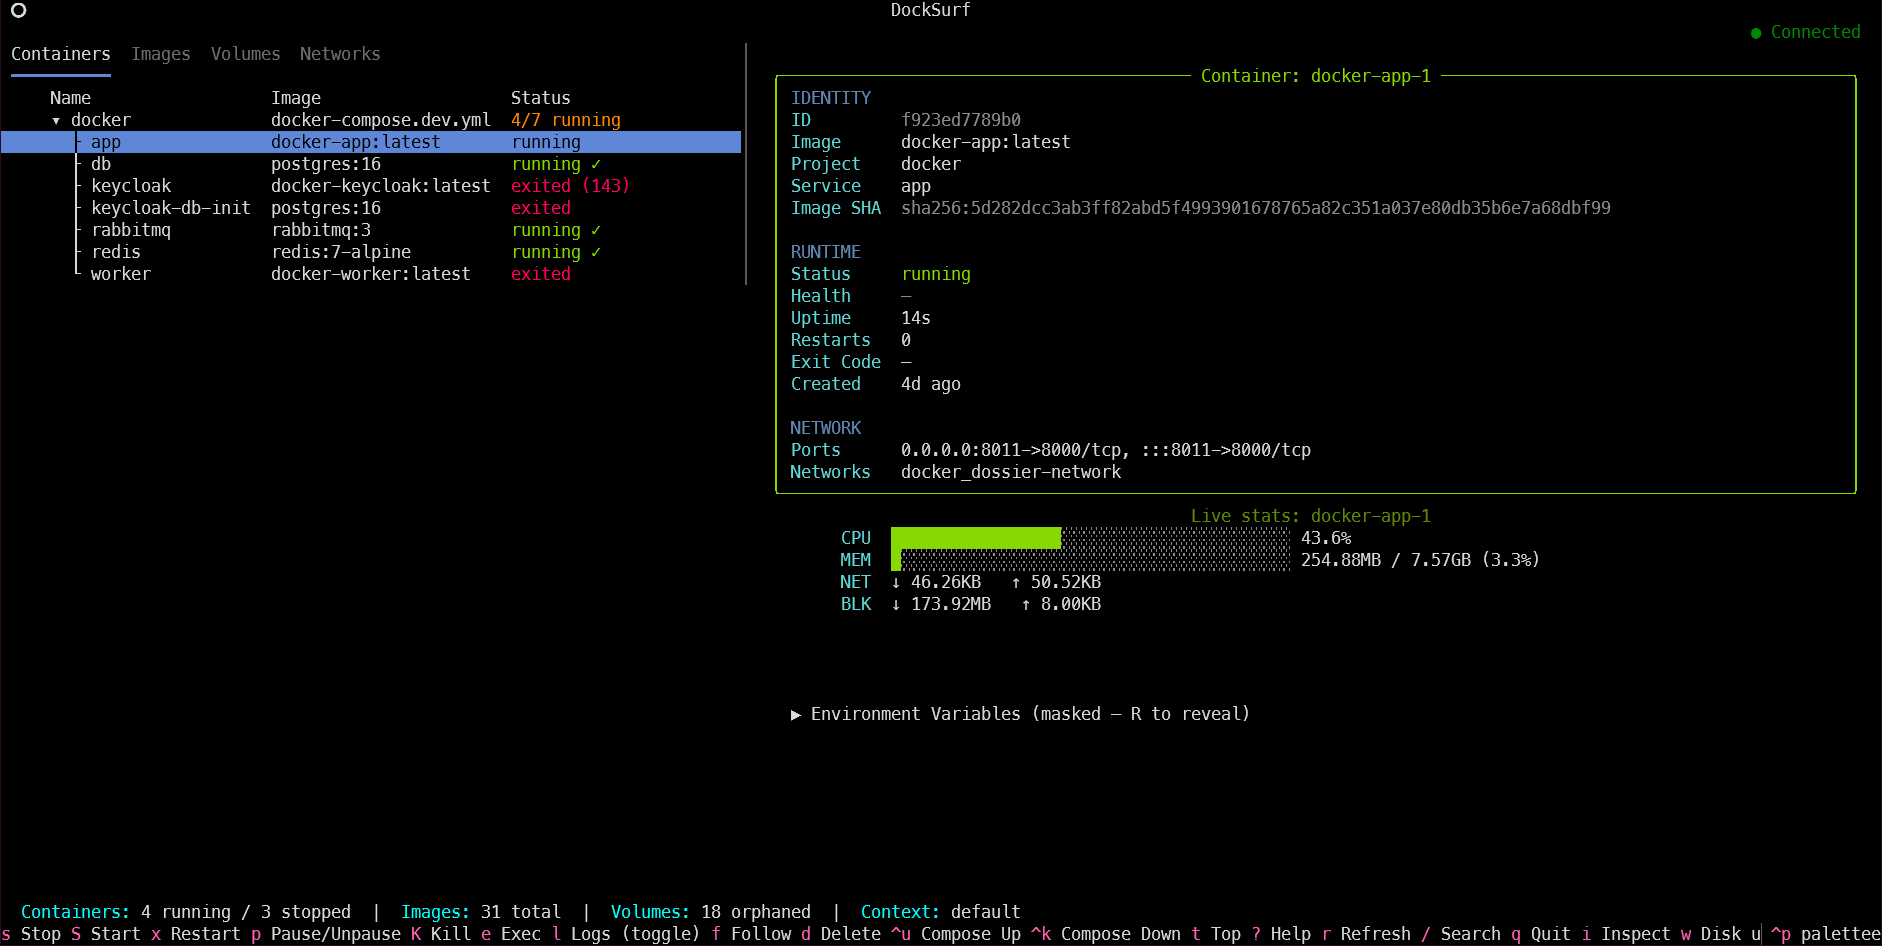
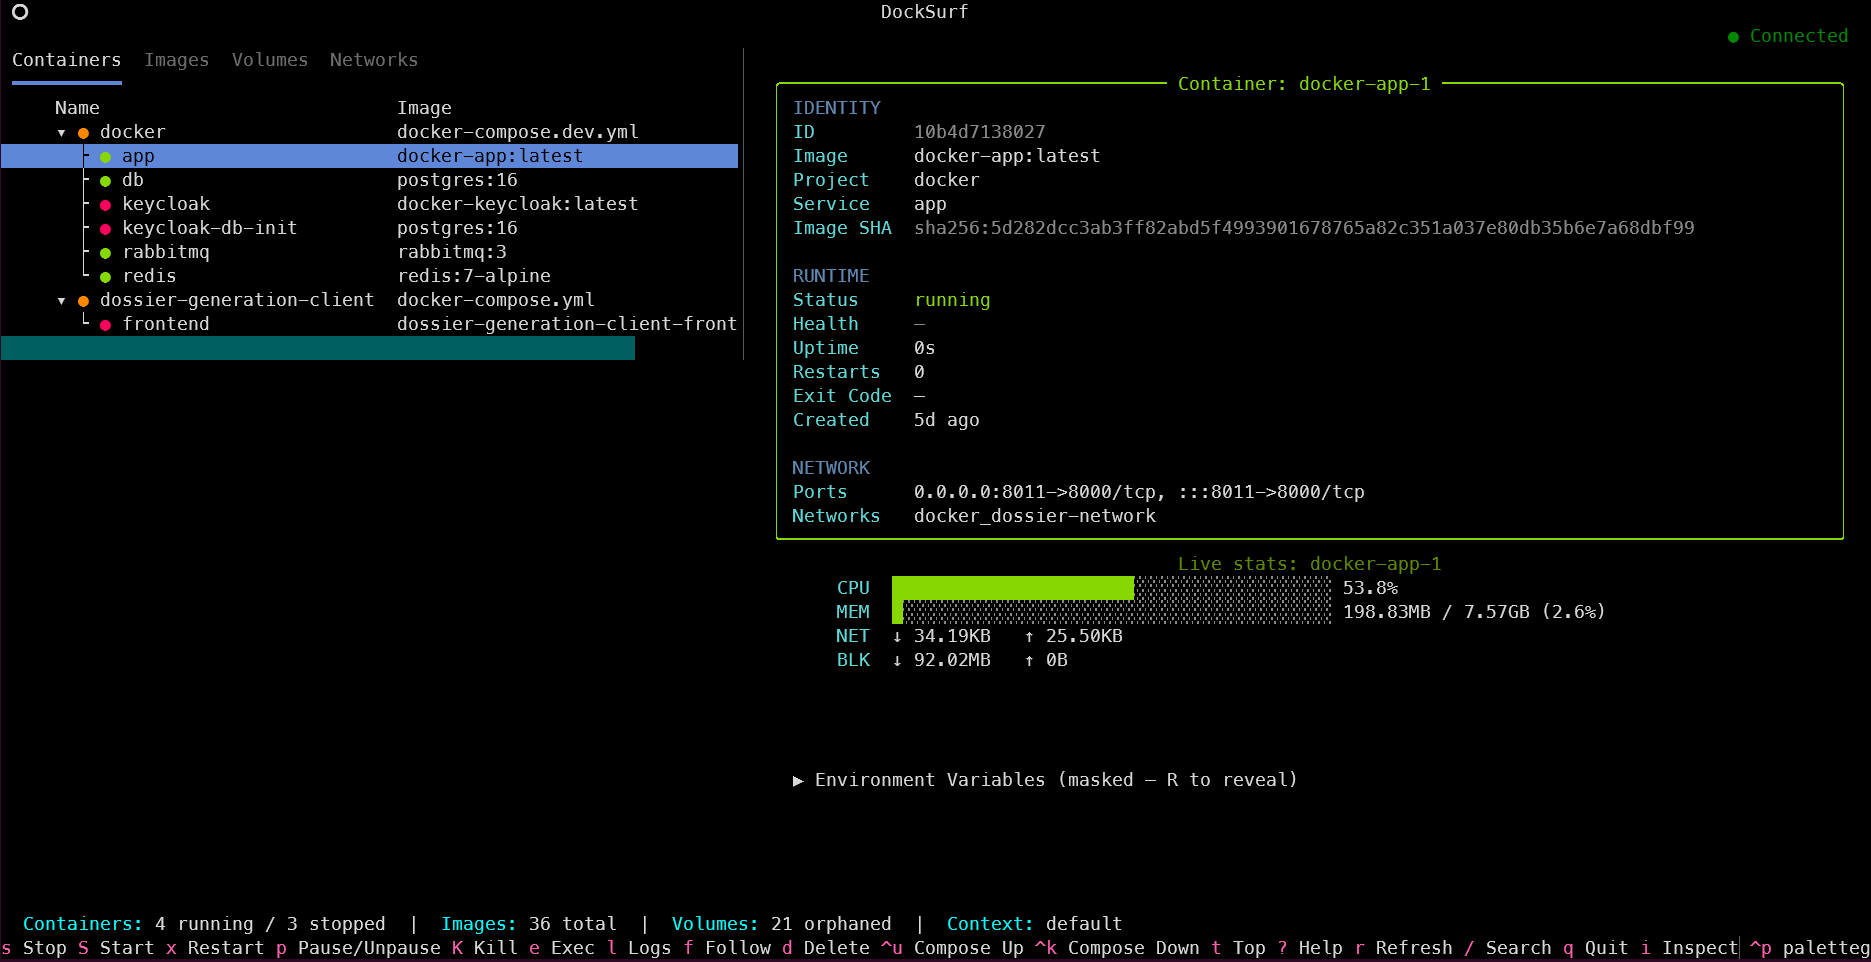
feat(containers): status dot instead of Status column; release notes + docs

diff --git a/docksurf_py/renderer/table_renderer.py b/docksurf_py/renderer/table_renderer.py
@@ -69,20 +69,10 @@ def _status_markup(c: Container) -> SafeMarkup:
     return SafeMarkup(f"[{_status_color(c)}]{label}[/]")
 
 
-def _status_cell(
-    c: Container, container_details: dict[str, ContainerDetail]
-) -> SafeMarkup:
-    """Return the status markup, adding a restart-count badge if available.
-
-    Restart counts come from per-container inspect data, so the badge only
-    appears for containers whose details have already been loaded.
-    """
-    base = _status_markup(c)
-    detail = container_details.get(c.id)
-    if detail and detail.restart_count > 0:
-        badge = f"({detail.restart_count} restarts)"
-        return SafeMarkup(f"{base} [{STATUS_YELLOW}]{badge}[/]")
-    return base
+def _status_dot(color: str) -> str:
+    """Colored bullet prefixed to a Name cell — an at-a-glance state
+    indicator so users don't need to scroll a wide table to see Status."""
+    return f"[{color}]●[/]"
 
 
 def _safe_row(table: DataTable, *values) -> None:
@@ -324,12 +314,12 @@ class TableRenderer(_Base):
                 else ""
             )
             rows.append(project)
+            dot = _status_dot(_project_status_color(project))
             _safe_row(
                 table,
                 "",  # project headers can't be marked
-                SafeMarkup(f"[b]{glyph} {escape(project.name)}[/b]"),
+                SafeMarkup(f"[b]{glyph}[/b] {dot} [b]{escape(project.name)}[/b]"),
                 config,
-                _project_status_markup(project),
             )
             if collapsed:
                 continue
@@ -337,23 +327,25 @@ class TableRenderer(_Base):
             for idx, c in enumerate(members):
                 rows.append(c)
                 branch = "└" if idx == len(members) - 1 else "├"
-                name = SafeMarkup(f"  {branch} {escape(c.compose_service or c.name)}")
+                dot = _status_dot(_status_color(c))
+                name = SafeMarkup(
+                    f"  {branch} {dot} {escape(c.compose_service or c.name)}"
+                )
                 _safe_row(
                     table,
                     _mark_cell(marked, self._row_key(c)),
                     name,
                     c.image_name,
-                    _status_cell(c, self._container_details),
                 )
 
         for c in standalone:
             rows.append(c)
+            dot = _status_dot(_status_color(c))
             _safe_row(
                 table,
                 _mark_cell(marked, self._row_key(c)),
-                c.name,
+                SafeMarkup(f"{dot} {escape(c.name)}"),
                 c.image_name,
-                _status_cell(c, self._container_details),
             )
 
         self._current[TabID.CONTAINERS] = rows

diff --git a/docksurf_py/actions/container.py b/docksurf_py/actions/container.py
@@ -14,7 +14,6 @@ from typing import Callable
 
 from rich.markup import escape
 from textual import work
-from textual.coordinate import Coordinate
 from textual.widgets import DataTable, TabbedContent
 
 from docksurf_py.actions.common import _PROJECT_HINT, _Base
@@ -27,7 +26,6 @@ from docksurf_py.models import (
     PortBinding,
 )
 from docksurf_py.paths import DATA_DIR
-from docksurf_py.renderer.table_renderer import _status_cell
 from docksurf_py.widgets import (
     ContainerPickerScreen,
     DetailPane,
@@ -191,16 +189,6 @@ class ContainerActionHandler(_Base):
             entry.show_details(pane, row)
         except IndexError:
             pass
-        # Refresh the row's Status cell too, now that its restart count (if
-        # any) is cached — `_status_cell` folds it in as a badge, but only
-        # once a container's been focused (see its own docstring for why).
-        rows = self._current.get(TabID.CONTAINERS, [])
-        item = rows[row] if row < len(rows) else None
-        if isinstance(item, Container) and item.id == container_id:
-            col = 1 + entry.columns.index("Status")
-            table.update_cell_at(
-                Coordinate(row, col), _status_cell(item, self._container_details)
-            )
 
     def _run_on_focused_container(
         self,

diff --git a/docksurf_py/widgets/tables.py b/docksurf_py/widgets/tables.py
@@ -15,6 +15,14 @@ from textual.widgets import DataTable
 class ContainerTable(DataTable):
     """A Table specifically for Containers with context-aware bindings."""
 
+    def __init__(self, *args, **kwargs) -> None:
+        # DataTable's default ("css") makes the cursor row's CSS foreground
+        # color override every cell's own color, including the status dot
+        # prefixed to the Name cell, which would otherwise go flat/unreadable
+        # on exactly the row a user is currently looking at.
+        kwargs.setdefault("cursor_foreground_priority", "renderable")
+        super().__init__(*args, **kwargs)
+
     BINDINGS = [
         Binding("s", "stop_container", "Stop"),
         Binding("S", "start_container", "Start"),

diff --git a/docksurf_py/app.py b/docksurf_py/app.py
@@ -345,7 +345,7 @@ class DockSurfApp(
         self._resource_registry = {
             TabID.CONTAINERS: ResourceEntry(
                 table_id=TableID.CONTAINERS,
-                columns=("Name", "Image", "Status"),
+                columns=("Name", "Image"),
                 label="container",
                 snapshot_items=lambda snap: snap.containers,
                 populate=self._populate_container_table,
@@ -355,7 +355,6 @@ class DockSurfApp(
                 sort_keys={
                     "Name": lambda c: c.name.lower(),
                     "Image": lambda c: c.image_name.lower(),
-                    "Status": lambda c: (not c.running, c.status.lower()),
                 },
             ),
             TabID.IMAGES: ResourceEntry(

diff --git a/README.md b/README.md
@@ -10,25 +10,24 @@ A keyboard-driven terminal UI for visualising and managing Docker resources like
 ## Highlights
 
 - **Live by default** — the tables auto-refresh on `docker events` (container start/stop/die, image pull/delete, …); `r` is a manual reload.
-- **Local or remote** — honours your active `docker context` on startup, so it manages the same daemon your CLI does: local, Docker Desktop, Colima, or a remote host over SSH/TCP.
-- **Docker Compose aware** — containers are grouped by project into a collapsible tree, with project-wide up / down / stop / start / restart and interleaved, colour-coded-per-service logs.
+- **Local or remote** — honours your active `docker context` on startup: local, Docker Desktop, Colima, or a remote host over SSH/TCP.
+- **Docker Compose aware** — containers grouped by project into a collapsible tree, with project-wide up/down/stop/start/restart, colour-coded per-service logs, and `B` to rebuild + recreate a single service in place.
 - **Live resource stats** — CPU %, memory, network and block I/O streamed into the detail pane for the selected running container.
 - **Full lifecycle control** — pause/unpause and kill sit alongside stop/start/restart, so a `stop` that hangs on its 10s timeout never needs the CLI.
 - **Multi-select + bulk actions** — mark rows on any tab and stop/start/remove them as a batch; ideal for cleaning up after a test run.
 - **Inspect & prune** — the full raw `docker inspect` JSON for any resource in a searchable modal, plus a one-key menu to prune stopped containers, dangling images, unused volumes/networks, or everything at once.
-- **Image / volume / network operations** — pull images with live progress, view layer history, tag, and bulk-clean dangling images; create volumes and check per-volume disk size; create networks and connect/disconnect containers, with per-container IP/MAC in the detail pane.
+- **Full image/volume/network CRUD** — pull, tag, and layer-history for images; create + size-on-disk for volumes; create + connect/disconnect for networks (see [Tabs](#tabs)).
 - **Power-user exec & copy** — a custom exec command with a chosen user, `docker cp` in/out of a container, and an on-demand `docker top` process snapshot, all via quick prompts.
-- **Full control log viewer** — live follow, in-log search with `n`/`N` match jumping, a timestamps toggle, configurable tail depth and `--since` window, line wrap for long JSON, jump-to-top/bottom, and one-key export of the buffer to a file.
-- **Operational signals at a glance** — colour-coded health column, uptime and restart count, plus recent health-check probe output in the detail pane.
+- **Full control log viewer** — live follow, in-log search, timestamps, configurable tail/`--since`, and mouse drag-to-select text to copy (`Ctrl+C`).
+- **Operational signals at a glance** — colour-coded health, uptime and restart count, plus recent health-check probe output in the detail pane.
 - **Disk usage** — a `docker system df` breakdown (per-type size + reclaimable) on demand.
-- **In-app context switching** — list and switch Docker contexts from inside the TUI (`D`) without ever running `docker context use`, so other terminals keep whatever context they already had. The choice is remembered across restarts.
-- **Auto-reconnect** — if the daemon goes down mid-session, the status bar flags it immediately and DockSurf reconnects on its own the moment it's back, with a full refresh — no restart required.
+- **In-app context switching** — list and switch Docker contexts from inside the TUI (`D`), remembered across restarts.
+- **Auto-reconnect** — if the daemon goes down mid-session, DockSurf reconnects and refreshes on its own the moment it's back.
 
 ## Requirements
 
-- Python 3.11+
 - A reachable Docker daemon (local, or a remote one via `docker context`)
-- [`uv`](https://github.com/astral-sh/uv) (package manager)
+- Python 3.11+ and [`uv`](https://github.com/astral-sh/uv) — not needed if you're using the [standalone binary](#install)
 - The `docker` CLI on `PATH` — only needed for exec-shell (`e`/`E`), Compose project actions (`u`/`k`), and file copy (`C`); everything else uses the SDK. DockSurf degrades gracefully if it's absent.
 
 ## Install
@@ -47,6 +46,21 @@ Or run it without installing, via [`uvx`](https://docs.astral.sh/uv/guides/tools
 ```bash
 uvx docksurf
 ```
+
+**Standalone binary** (no Python/pip/uv required) — download the file for your OS from the [latest release](https://github.com/praneeth-etta/docksurf/releases/latest):
+
+- Linux: `docksurf-linux-x86_64`
+- macOS (Apple Silicon): `docksurf-macos-arm64`
+- macOS (Intel): `docksurf-macos-x86_64`
+- Windows: `docksurf-windows-x86_64.exe`
+
+```bash
+chmod +x docksurf-linux-x86_64   # or the macOS binary you downloaded
+mv docksurf-linux-x86_64 /usr/local/bin/docksurf
+docksurf
+```
+
+On Windows, just run the `.exe` directly — no `chmod`/`mv` step needed.
 
 **From source** (for development, or to run an unreleased change):
 
@@ -95,7 +109,7 @@ The essentials — full reference (per-tab keys, log pane, Compose header behavi
 
 Every tab has a leading mark column (`space` to toggle) for multi-select + bulk actions — see [Keybindings](#keybindings).
 
-**Containers** — all containers (running and stopped), **grouped by Compose project** into a collapsible tree (project header → service rows), with standalone containers listed below. Columns: name, status, colour-coded health, and uptime. The detail pane shows image, ports, networks, project/service, uptime, restart count, a collapsible environment-variable section, a collapsible recent-health-probe log, a live CPU/mem/net/block-IO panel for a running container, and — on demand (`t`) — a `docker top` running-process snapshot.
+**Containers** — all containers (running and stopped), **grouped by Compose project** into a collapsible tree, with standalone containers below. Columns: name (with a colour-coded status dot) and image. The detail pane adds status, health, uptime, restart count, ports, networks, env vars, health-probe history, live CPU/mem/net/block-IO stats, and an on-demand `docker top` snapshot (`t`). For a Compose service, `B` rebuilds and recreates just that container, streamed live.
 
 **Images** — all images, tagged as *In Use*, *Unused*, or *Dangling*. Detail pane shows size, created date, architecture, and which containers reference the image. Pull new images with live progress (`+`), view per-layer history (`h`), retag (`y`), and one-key mark-all-dangling for bulk cleanup (`a`).
 
@@ -105,24 +119,13 @@ Every tab has a leading mark column (`space` to toggle) for multi-select + bulk 
 
 ## Architecture
 
-Eleven top-level modules/packages with strict layering (_models.py_ and _constants.py_ are leaf nodes and nothing imports into them). Four of the eleven — `docker`, `renderer`, `actions`, `widgets` — are packages split into one file per class/mixin, each re-exporting exactly what the equivalent single file used to expose, so nothing outside the package needed to change:
-
-- **`constants.py`** — widget/tab/table IDs, the _SafeMarkup_ render-boundary marker, and Rich markup helpers.
-- **`models.py`** — typed dataclasses for every resource (_Container_, _Image_, _Volume_, _Network_, _ComposeProject_, _ContainerStats_, _ContainerTop_, _SystemDf_, _ContextInfo_, …). No presentation logic.
-- **`connection.py`** — Docker connection detection/classification, context and host resolution.
-- **`docker/`** — all Docker I/O via the [Docker SDK for Python](https://docker-py.readthedocs.io/). _DockerClient_ (`client.py`) owns the SDK connection (honouring _docker context_, with an in-app override for `switch_context`) and every management call — full container lifecycle (stop/start/restart/pause/kill/remove), prune, inspect, `top`, file copy, and context listing/switching; it also detects a dropped daemon (`mark_disconnected`) so reconnecting doesn't need a restart. _DockerResourceFetcher_ (`fetcher.py`) does the parallel reads; _LogStream_/_MergedLogStream_/_StatsStream_/_EventStream_ (`streams.py`) are the live iterators; context resolution (`context.py`) and display formatting (`format.py`) round out the package.
-- **`service.py`** — the _DockerService_ protocol _DockerClient_ implements (swappable in tests).
-- **`widgets/`** — Textual UI components with no Docker knowledge, one file per widget/screen: _ContainerTable_, _DetailPane_, _LogPane_, _SearchBar_, _ConfirmDialog_, _HelpScreen_, _SystemDfScreen_, _InspectScreen_, _PruneScreen_, _PromptScreen_, _StatusBar_ (renders a connection-lost indicator).
-- **`renderer/`**, **`actions/`**, **`search.py`**, **`observability.py`** — focused mixin classes composed into _DockSurfApp_ in **_app.py_**, driven by a single per-tab ResourceEntry registry: table rendering, snapshot/event lifecycle, connection-state tracking, and multi-select marking (`renderer/`); container lifecycle, Compose, delete, bulk actions, inspect, prune, exec, file-copy, and context-switching actions (`actions/`); search (`search.py`); live stats, disk usage, and `docker top` (`observability.py`).
+Strict layering: `models.py` and `constants.py` are leaf modules nothing imports into. All Docker I/O lives in `docker/` (via the [Docker SDK for Python](https://docker-py.readthedocs.io/)) behind a `DockerService` protocol, so it's swappable in tests. `widgets/` is presentation-only, with no Docker knowledge. `renderer/`, `actions/`, `search.py`, and `observability.py` compose into the app itself — table rendering, resource actions, search, and live stats/`docker top` — driven by a single per-tab resource registry rather than branching on resource type throughout.
 
 ## How data is fetched
 
-DockSurf talks to Docker through the SDK (`docker-py`), not the CLI but with three sanctioned exceptions, all guarded on the `docker` CLI being present: the interactive **exec-shell** (needs a real TTY the SDK can't hand back), **Compose project actions** (docker-py has no Compose support, and `up` must recreate containers from the compose file), and **file copy** (`docker cp`) — the SDK only exposes raw tar archives, and safely reproducing `docker cp`'s copy semantics isn't worth it for a convenience feature.
+DockSurf talks to Docker through the SDK (`docker-py`), not the CLI — with three sanctioned exceptions, all guarded on the `docker` CLI being present: interactive **exec-shell** (needs a real TTY), **Compose project actions** (docker-py has no Compose support), and **file copy** (`docker cp` semantics aren't worth reproducing over the SDK's raw tar archives).
 
-- **Snapshots** — all four resource types are fetched in parallel via `ThreadPoolExecutor` on each refresh, so the UI never blocks.
-- **Event-driven refresh** — a background worker subscribes to `docker events` and debounces bursts into a refresh, ignoring high-frequency noise (exec probes, per-interval health-status pings). A refresh preserves your current selection rather than resetting the cursor.
-- **Live stats** — `container.stats(stream=True)` is streamed for the selected running container on a background thread and rendered into the detail pane (one stream at a time, to stay cheap).
-- **Logs** — streamed live from the SDK's generator; timestamps are always fetched (shown on demand), and tail depth / `--since` window are configurable per view. A Compose project's logs are merged across its containers with a colour-coded per-service prefix.
+Resource lists are fetched in parallel on every refresh and kept live via `docker events` (debounced, selection-preserving); stats and logs stream straight from the SDK, with a Compose project's logs merged and colour-coded per service.
 
 ## Docker contexts — local and remote
 
@@ -144,13 +147,7 @@ docker context create staging --docker "host=tcp://staging.example.com:2375"
 
 **Auto-reconnect** — if the daemon your active context points at goes down mid-session (VM reboot, daemon restart, network blip), the status bar flags it immediately (`● <reason>`) and DockSurf retries on its own every couple of seconds, reconnecting and refreshing the moment it's back — no restart, no manual `r`.
 
-**Common use cases:**
-- Managing a Linux VM (cloud instance, on-prem box, home server) over SSH without keeping a shell session open
-- Switching between staging and production daemons from one tool, mid-session, with `D`
-- Inspecting a production server's containers without full shell access
-- Managing a Raspberry Pi or other edge device from your laptop
-
-Any endpoint that speaks the **Docker Engine API** works this way — a plain Linux daemon, Docker Desktop, Colima, Rancher Desktop, or a remote host over SSH/TCP. Managed platforms that don't expose that API can't be reached this way, even with a custom context — **Azure Container Apps is the common trap**: it's Kubernetes-based under the hood with no Docker Engine endpoint at all, so `docker context`/DockSurf/`docker ps` have nothing to talk to. Azure Container Instances had a (now-deprecated) `docker context create aci` integration; Container Apps never did — manage those via `az containerapp`, the Azure Portal, or the Azure SDK instead.
+Works with any endpoint that speaks the **Docker Engine API** — a plain Linux daemon, Docker Desktop, Colima, Rancher Desktop, or a remote host over SSH/TCP. Managed platforms without that API can't be reached this way even with a custom context.
 
 ## Logging
 

diff --git a/CHANGELOG.md b/CHANGELOG.md
@@ -11,7 +11,7 @@ the caveat that pre-1.0 (`0.x`) minor bumps may still include breaking changes.
 commit, then tag the commit `vx.y.z` and push the tag — that triggers the
 PyPI publish workflow.
 
-## [Unreleased]
+## [0.3.0] - 2026-07-23
 
 ### Added
 - Rebuild a Compose service in place (`B`): rebuilds the service's image from
@@ -23,6 +23,14 @@ PyPI publish workflow.
   then `Ctrl+C` to copy. Textual's `RichLog` has no selection support (it never
   maps click coordinates or paints the highlight), so DockSurf ships a
   `SelectableRichLog` that implements selection over the rendered lines.
+
+### Changed
+- Containers tab: dropped the Status column (it scrolled off-screen on
+  narrower terminals and duplicated what the detail pane already shows) in
+  favour of a colored dot before each container's name — and each Compose
+  project's name — so state is visible at a glance without scrolling.
+  Sorting by Status is no longer available now that there's no column header
+  to click; sort by Name or Image instead.
 
 ### Fixed
 - Log pane: container log lines containing raw ANSI escape codes (some apps

diff --git a/KEYBINDINGS.md b/KEYBINDINGS.md
@@ -40,8 +40,9 @@ The container/project keys are context-sensitive: on a Compose **project header*
 | `E` | Exec with a custom command and/or user (`-u`), pre-filled with the detected shell | — |
 | `t` | Toggle a `docker top` running-process snapshot in the detail pane | — |
 | `C` | Copy files in/out of the container (`docker cp`), via a source/destination prompt | — |
-| `u` | Compose **up** (`docker compose up -d`) — brings the focused project up |
-| `k` | Compose **down** (`docker compose down`, confirmed) — tears the project down |
+| `B` | Rebuild image from source + recreate this container (Compose services only; skipped for image-only services, e.g. `postgres`), streamed live | — |
+| `ctrl+u` | Compose **up** — brings the whole project up (`docker compose up -d`) | Compose **up** — brings the whole project up |
+| `ctrl+k` | Compose **down** — tears the whole project down (confirmed) | Compose **down** — tears the whole project down |
 | `space` | Mark for bulk action                          | Collapse / expand project group  |
 
 ## Images / Volumes / Networks tabs
@@ -76,3 +77,5 @@ Like the container keys, these are tab-scoped — each acts on the focused row o
 | `l`       | Close log viewer, return to detail pane                          |
 
 The `⛶ Expand` / `⊡ Collapse` button in the log toolbar is also clickable.
+
+**Mouse drag-to-select**: drag over log text to highlight it, then `Ctrl+C` to copy — Textual's log widget has no built-in selection support, so DockSurf implements it directly.

diff --git a/QUICKSTART.md b/QUICKSTART.md
@@ -16,6 +16,8 @@ Or without installing, via [`uvx`](https://docs.astral.sh/uv/guides/tools/):
 uvx docksurf
 ```
 
+Download a standalone binary for your OS from the [latest release](https://github.com/praneeth-etta/docksurf/releases/latest) — `chmod +x` it (Linux/macOS) and run it; on Windows just run the `.exe`.
+
 From source (development, or an unreleased change):
 
 ```bash